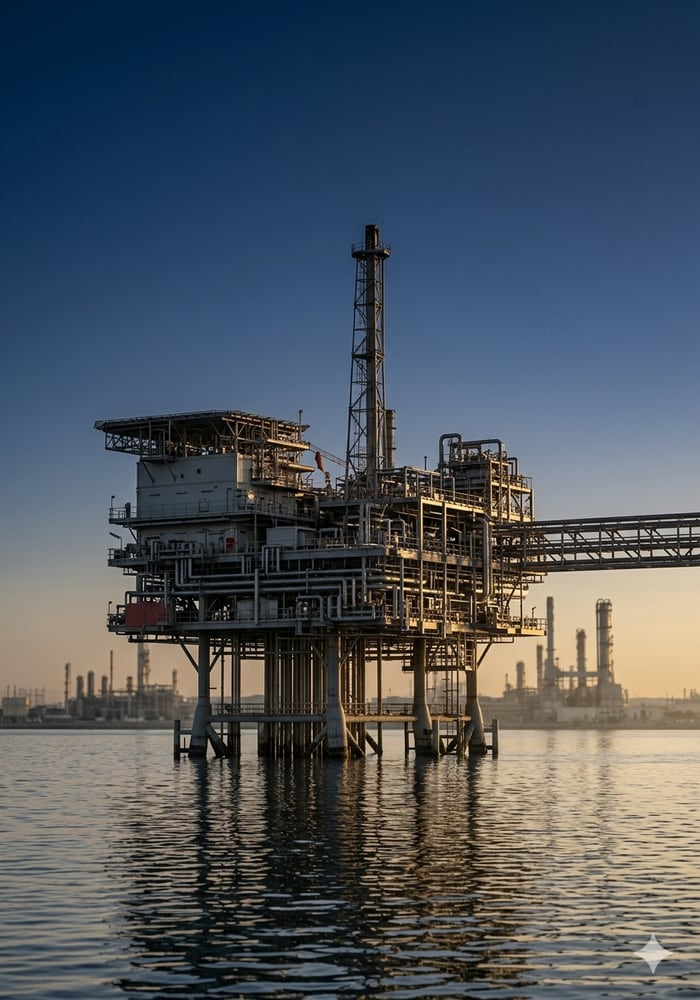
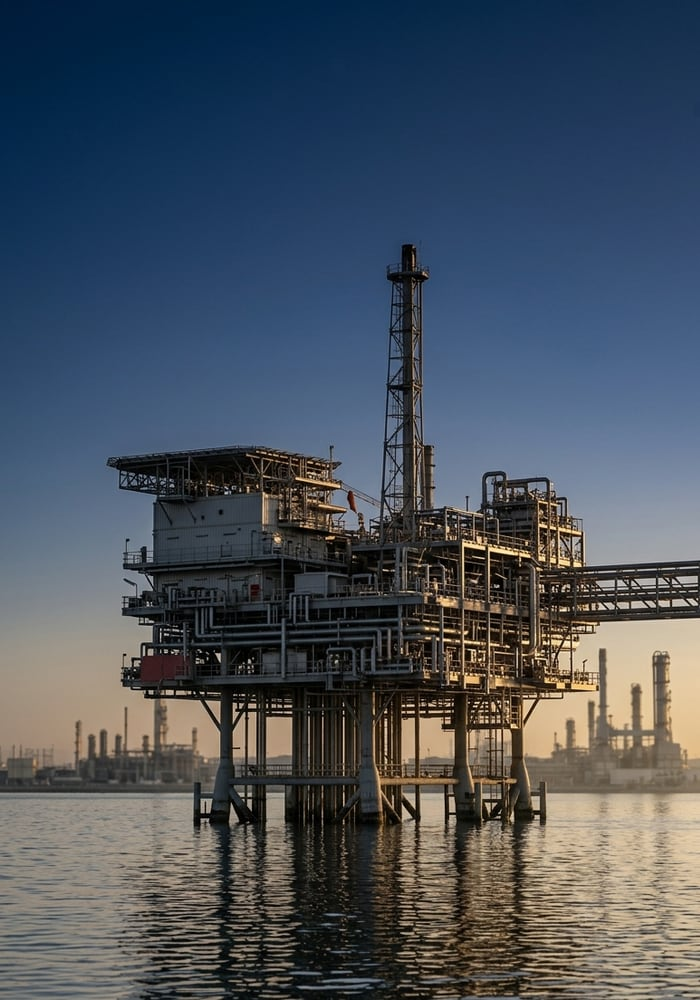
industries-tall: re-crop to remove Gemini watermark
The previous import included the ✦ watermark Gemini stamps in the
bottom-right corner of every generation. Re-imported the same
source PNG with an explicit pre-resize extract step that trims
8% off the right edge and 8% off the bottom — well clear of where
the watermark sits — then resizes the cleaned 824×1104 canvas to
the canonical 700×1000 portrait.

Net file size: 99 KB → 94 KB (slightly smaller from the tighter
framing). IMG_VER bumped to 2026-04-26-industries-tall-clean so
browsers caching the watermarked version refresh.

diff --git a/js/goodway-enhance.js b/js/goodway-enhance.js
@@ -21,7 +21,7 @@
      after replacing any file under /images/ or /assets/images/ to force
      a one-shot refresh. Applies to <img src>, <img data-src>, and
      <source srcset> within <picture>. */
-  var IMG_VER  = '2026-04-26-industries-tall';
+  var IMG_VER  = '2026-04-26-industries-tall-clean';
 
   /* ---------- SEO / marketing hook-ups ---------------------------------
      Paste tokens here once the client registers each service. Empty
